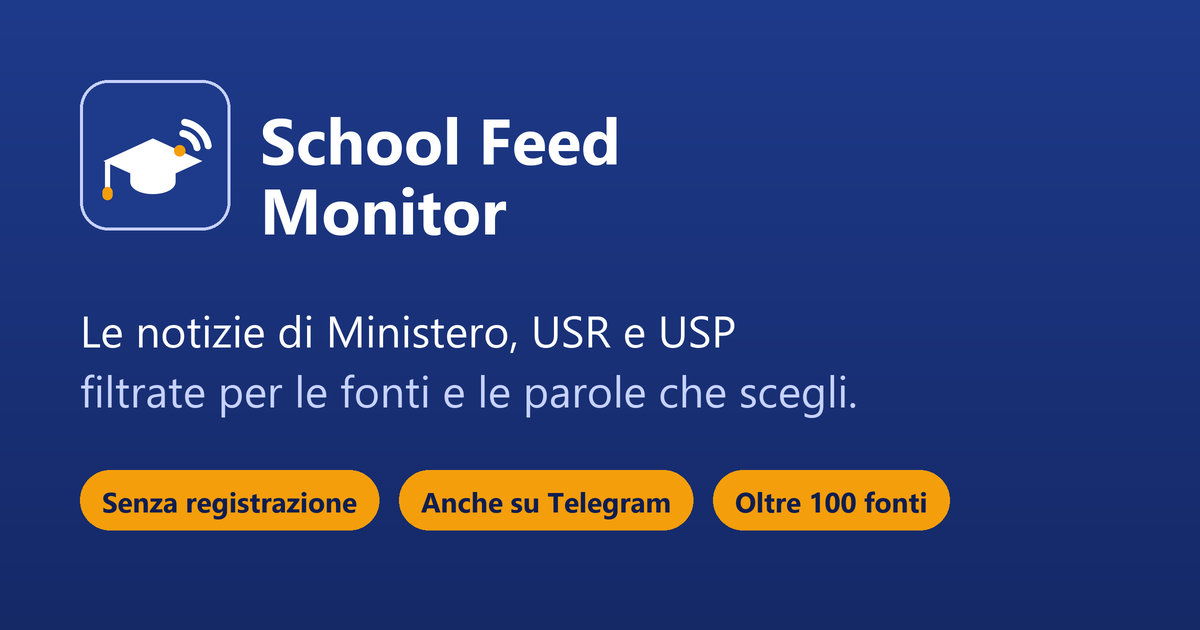
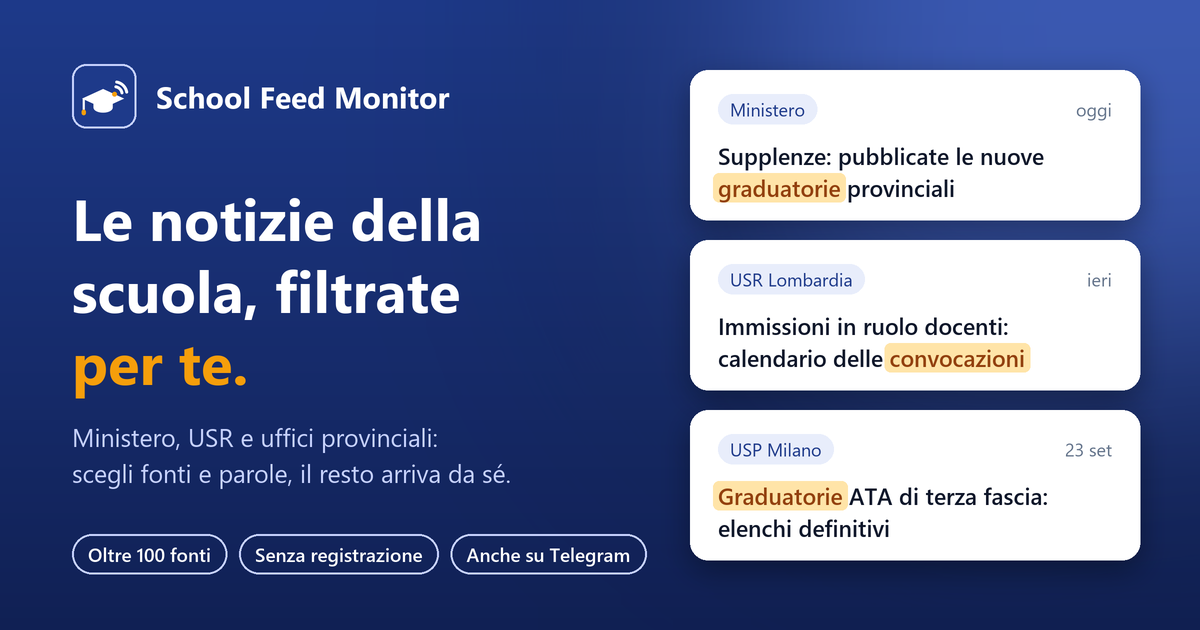
social sharing

diff --git a/scripts/make_og_image.py b/scripts/make_og_image.py
@@ -8,20 +8,34 @@ serve né al bot né al sito:
 import os
 import sys
 
-from PIL import Image, ImageDraw, ImageFont
+from PIL import Image, ImageDraw, ImageFilter, ImageFont
 
 HERE = os.path.dirname(os.path.abspath(__file__))
 STATIC = os.path.join(HERE, "..", "web", "static")
 W, H = 1200, 630
 SCALE = 2                      # disegna al doppio e riduce: bordi più puliti
-BLUE, BLUE_DARK, AMBER, WHITE = (30, 58, 138), (15, 30, 80), (245, 158, 11), (255, 255, 255)
-SOFT = (199, 210, 254)
+# gli stessi colori di style.css
+BLUE, BLUE_DARK, AMBER, WHITE = (30, 58, 138), (12, 24, 66), (245, 158, 11), (255, 255, 255)
+SOFT, FG, MUTED, BORDER = (199, 210, 254), (15, 23, 42), (100, 116, 139), (226, 232, 240)
+PRIMARY_SOFT, ACCENT_SOFT, ACCENT_FG = (232, 237, 251), (255, 228, 168), (146, 64, 14)
 
 FONT_CANDIDATES = {
     "bold": ["segoeuib.ttf", "arialbd.ttf", "DejaVuSans-Bold.ttf"],
+    "semibold": ["seguisb.ttf", "arialbd.ttf", "DejaVuSans-Bold.ttf"],
     "regular": ["segoeui.ttf", "arial.ttf", "DejaVuSans.ttf"],
 }
 FONT_DIRS = [r"C:\Windows\Fonts", "/usr/share/fonts/truetype/dejavu", "/Library/Fonts"]
+
+# card finte del feed: fonte, data, titolo e la parola "filtrata" da evidenziare
+CARDS = [
+    ("Ministero", "oggi", "Supplenze: pubblicate le nuove graduatorie provinciali", "graduatorie"),
+    ("USR Lombardia", "ieri", "Immissioni in ruolo docenti: calendario delle convocazioni", "convocazioni"),
+    ("USP Milano", "23 set", "Graduatorie ATA di terza fascia: elenchi definitivi", "Graduatorie"),
+]
+
+
+def s(v):
+    return int(v * SCALE)
 
 
 def font(kind, size):
@@ -29,42 +43,111 @@ def font(kind, size):
         for d in FONT_DIRS:
             path = os.path.join(d, name)
             if os.path.exists(path):
-                return ImageFont.truetype(path, size * SCALE)
+                return ImageFont.truetype(path, s(size))
     sys.exit("Nessun font trovato: installa DejaVu o lancialo da Windows")
 
 
-def main():
-    img = Image.new("RGB", (W * SCALE, H * SCALE), BLUE)
+def wrap(draw, text, f, width):
+    """Spezza il testo in righe che stanno in `width` pixel."""
+    lines, line = [], ""
+    for word in text.split():
+        probe = f"{line} {word}".strip()
+        if line and draw.textlength(probe, font=f) > width:
+            lines.append(line)
+            line = word
+        else:
+            line = probe
+    return lines + [line]
+
+
+def glow(img, center, radius, color, alpha):
+    """Alone sfumato per dare profondità allo sfondo."""
+    layer = Image.new("RGBA", img.size, (0, 0, 0, 0))
+    cx, cy = center
+    ImageDraw.Draw(layer).ellipse([s(cx - radius), s(cy - radius), s(cx + radius), s(cy + radius)], fill=color + (alpha,))
+    img.alpha_composite(layer.filter(ImageFilter.GaussianBlur(s(radius * 0.45))))
+
+
+def card(img, x, y, w, source, when, title, keyword):
+    """Una notizia come appare nel feed, con la parola filtrata evidenziata; restituisce l'altezza."""
+    f_title, f_meta = font("semibold", 23), font("regular", 18)
+    probe = ImageDraw.Draw(img)
+    lines = wrap(probe, title, f_title, s(w - 56))
+    h = 70 + 32 * len(lines) + 16
+
+    shadow = Image.new("RGBA", img.size, (0, 0, 0, 0))
+    ImageDraw.Draw(shadow).rounded_rectangle([s(x), s(y + 10), s(x + w), s(y + h + 10)], radius=s(18), fill=(0, 0, 0, 90))
+    img.alpha_composite(shadow.filter(ImageFilter.GaussianBlur(s(14))))
+
     draw = ImageDraw.Draw(img)
-    # sfumatura verticale leggera verso il blu scuro
-    for y in range(H * SCALE):
-        t = y / (H * SCALE)
-        draw.line([(0, y), (W * SCALE, y)], fill=tuple(int(a + (b - a) * t * 0.6) for a, b in zip(BLUE, BLUE_DARK)))
-    s = lambda v: v * SCALE    # noqa: E731
+    draw.rounded_rectangle([s(x), s(y), s(x + w), s(y + h)], radius=s(18), fill=WHITE)
+    # fonte come pillola, data a destra
+    tw = draw.textlength(source, font=f_meta)
+    draw.rounded_rectangle([s(x + 28), s(y + 24), s(x + 28) + tw + s(24), s(y + 54)], radius=s(15), fill=PRIMARY_SOFT)
+    draw.text((s(x + 40), s(y + 39)), source, font=f_meta, fill=BLUE, anchor="lm")
+    draw.text((s(x + w - 28), s(y + 39)), when, font=f_meta, fill=MUTED, anchor="rm")
 
-    logo = Image.open(os.path.join(STATIC, "android-chrome-512x512.png")).convert("RGBA").resize((s(150), s(150)), Image.LANCZOS)
+    ty = y + 70
+    for line in lines:
+        cx = s(x + 28)
+        for i, word in enumerate(line.split()):
+            text = word if i == 0 else " " + word
+            if word.strip(":,.") == keyword:
+                lead = draw.textlength(" ", font=f_title) if i else 0
+                ww = draw.textlength(word, font=f_title)
+                draw.rounded_rectangle([cx + lead - s(5), s(ty + 1), cx + lead + ww + s(5), s(ty + 30)], radius=s(6), fill=ACCENT_SOFT)
+                draw.text((cx, s(ty)), text, font=f_title, fill=ACCENT_FG)
+            else:
+                draw.text((cx, s(ty)), text, font=f_title, fill=FG)
+            cx += draw.textlength(text, font=f_title)
+        ty += 32
+    return h
+
+
+def main():
+    img = Image.new("RGBA", (s(W), s(H)), BLUE)
+    draw = ImageDraw.Draw(img)
+    # sfumatura diagonale dal blu del sito al blu scuro
+    for y in range(s(H)):
+        t = y / s(H)
+        draw.line([(0, y), (s(W), y)], fill=tuple(int(a + (b - a) * t * 0.75) for a, b in zip(BLUE, BLUE_DARK)))
+    glow(img, (980, 150), 330, (96, 130, 230), 110)
+    draw = ImageDraw.Draw(img)
+
+    # marchio in alto a sinistra
+    logo = Image.open(os.path.join(STATIC, "android-chrome-512x512.png")).convert("RGBA").resize((s(64), s(64)), Image.LANCZOS)
     mask = Image.new("L", logo.size, 0)
-    ImageDraw.Draw(mask).rounded_rectangle([0, 0, logo.size[0] - 1, logo.size[1] - 1], radius=s(28), fill=255)
-    img.paste(logo, (s(80), s(80)), mask)
-    draw.rounded_rectangle([s(80), s(80), s(230), s(230)], radius=s(28), outline=SOFT, width=s(3))
+    ImageDraw.Draw(mask).rounded_rectangle([0, 0, logo.size[0] - 1, logo.size[1] - 1], radius=s(14), fill=255)
+    img.paste(logo, (s(72), s(64)), mask)
+    draw.rounded_rectangle([s(72), s(64), s(136), s(128)], radius=s(14), outline=SOFT, width=s(2))
+    draw.text((s(156), s(96)), "School Feed Monitor", font=font("bold", 30), fill=WHITE, anchor="lm")
 
-    draw.text((s(260), s(95)), "School Feed", font=font("bold", 64), fill=WHITE)
-    draw.text((s(260), s(165)), "Monitor", font=font("bold", 64), fill=WHITE)
-
-    draw.text((s(80), s(300)), "Le notizie di Ministero, USR e USP", font=font("regular", 44), fill=WHITE)
-    draw.text((s(80), s(360)), "filtrate per le fonti e le parole che scegli.", font=font("regular", 44), fill=SOFT)
+    # messaggio
+    f_head = font("bold", 58)
+    y = 178
+    for line in ("Le notizie della", "scuola, filtrate", "per te."):
+        draw.text((s(72), s(y)), line, font=f_head, fill=AMBER if line == "per te." else WHITE)
+        y += 72
+    y += 26
+    for line in ("Ministero, USR e uffici provinciali:", "scegli fonti e parole, il resto arriva da sé."):
+        draw.text((s(72), s(y)), line, font=font("regular", 25), fill=SOFT)
+        y += 36
 
     # pillole in basso
-    x = s(80)
-    for label in ("Senza registrazione", "Anche su Telegram", "Oltre 100 fonti"):
-        f = font("bold", 28)
+    x, f = s(72), font("semibold", 19)
+    for label in ("Oltre 100 fonti", "Senza registrazione", "Anche su Telegram"):
         w = draw.textlength(label, font=f)
-        draw.rounded_rectangle([x, s(470), x + w + s(44), s(530)], radius=s(30), fill=AMBER)
-        draw.text((x + s(22), s(482)), label, font=f, fill=BLUE_DARK)
-        x += w + s(64)
+        draw.rounded_rectangle([x, s(534), x + w + s(32), s(574)], radius=s(20), outline=SOFT, width=s(2))
+        draw.text((x + s(16), s(554)), label, font=f, fill=WHITE, anchor="lm")
+        x += w + s(44)
+
+    # feed a destra: le card escono dal bordo in basso, come una lista che continua
+    y = 70
+    for source, when, title, keyword in CARDS:
+        y += card(img, 690, y, 450, source, when, title, keyword) + 20
 
     out = os.path.join(STATIC, "og-image.png")
-    img.resize((W, H), Image.LANCZOS).save(out, optimize=True)
+    img.convert("RGB").resize((W, H), Image.LANCZOS).save(out, optimize=True)
     print(f"scritto {os.path.normpath(out)} ({os.path.getsize(out) // 1024} KB)")
 
 
